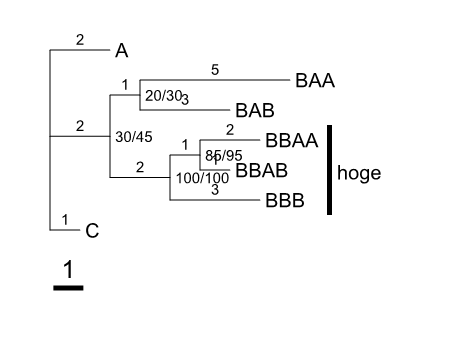
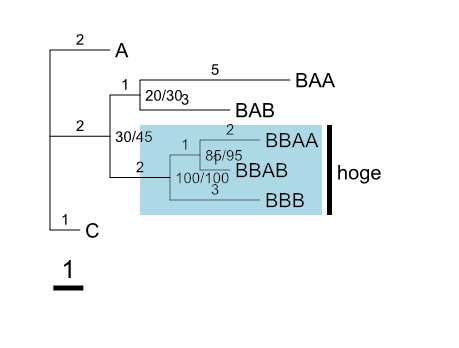
feat: implement shade on backend

Changed region(s): [[0.305, 0.3448, 0.7015, 0.6322]]

diff --git a/src/TreeViewer.Core/Drawing/PositionManager.cs b/src/TreeViewer.Core/Drawing/PositionManager.cs
@@ -235,6 +235,46 @@ namespace TreeViewer.Core.Drawing
         }
 
         /// <summary>
+        ///シェードの座標を算出します。
+        /// </summary>
+        /// <param name="clade">対象のクレード</param>
+        /// <returns><paramref name="clade"/>のシェードの座標</returns>
+        /// <exception cref="ArgumentNullException"><paramref name="clade"/>が<see langword="null"/></exception>
+        public (double x, double y, double width, double height) CalcCladeShadePosition(Clade clade)
+        {
+            ArgumentNullException.ThrowIfNull(clade);
+
+            double CalcXRight(Clade external)
+            {
+                (double x, _, double width, _) = CalcLeafPosition(external);
+                return x + width;
+            }
+
+            double xLeft = (CalcX1(clade) + CalcX2(clade)) / 2;
+            double xRight, yTop, yBottom;
+            double halfLeafHeight = treeStyle.YScale / 2;
+
+            if (clade.GetIsExternal())
+            {
+                xRight = CalcXRight(clade);
+                double y1 = CalcY1(clade);
+                yTop = y1 - halfLeafHeight;
+                yBottom = y1 + halfLeafHeight;
+            }
+            else
+            {
+                Clade[] externals = clade.GetDescendants()
+                                         .Where(x => x.GetIsExternal())
+                                         .ToArray();
+                xRight = externals.Max(CalcXRight);
+                yTop = CalcY1(externals[0]) - halfLeafHeight;
+                yBottom = CalcY1(externals[^1]) + halfLeafHeight;
+            }
+
+            return (xLeft, yTop, xRight - xLeft + 5, yBottom - yTop);
+        }
+
+        /// <summary>
         /// 折り畳みの三角形の座標を算出します。
         /// </summary>
         /// <param name="clade">対象のクレード</param>

diff --git a/src/TreeViewer.Core.Test/Drawing/Styles/CladeStyleTest.cs b/src/TreeViewer.Core.Test/Drawing/Styles/CladeStyleTest.cs
@@ -24,6 +24,7 @@ namespace TreeViewer.Core.Drawing.Styles
                 Assert.Equal("black", style.LeafColor);
                 Assert.False(style.Collapsed);
                 Assert.Null(style.CladeLabel);
+                Assert.Null(style.ShadeColor);
             });
         }
 
@@ -40,21 +41,17 @@ namespace TreeViewer.Core.Drawing.Styles
         [Fact]
         public void ApplyValues_AsPositive()
         {
-            style.ApplyValues(new CladeStyle()
+            var applied = new CladeStyle()
             {
                 BranchColor = "white",
                 LeafColor = "none",
                 Collapsed = true,
                 CladeLabel = "clade",
-            });
+                ShadeColor = "blue",
+            };
+            style.ApplyValues(applied);
 
-            Assert.Multiple(() =>
-            {
-                Assert.Equal("white", style.BranchColor);
-                Assert.Equal("none", style.LeafColor);
-                Assert.True(style.Collapsed);
-                Assert.Equal("clade", style.CladeLabel);
-            });
+            CustomizedAssertions.Equal(applied, style);
         }
 
         [Fact]
@@ -64,6 +61,7 @@ namespace TreeViewer.Core.Drawing.Styles
             style.LeafColor = "blue";
             style.Collapsed = true;
             style.CladeLabel = "clade";
+            style.ShadeColor = "blue";
 
             CladeStyle cloned = style.Clone();
 
@@ -77,6 +75,7 @@ namespace TreeViewer.Core.Drawing.Styles
             style.LeafColor = "blue";
             style.Collapsed = true;
             style.CladeLabel = "clade";
+            style.ShadeColor = "blue";
 
             var cloned = (CladeStyle)((ICloneable)style).Clone();
 

diff --git a/src/TreeViewer.Core.Test/Exporting/SvgExporterTest.cs b/src/TreeViewer.Core.Test/Exporting/SvgExporterTest.cs
@@ -23,6 +23,7 @@ namespace TreeViewer.Core.Exporting
             tree.Style.XScale = 30;
             tree.Style.ScaleBarValue = 1;
             tree.Root.ChildrenInternal[1].ChildrenInternal[1].Style.CladeLabel = "hoge";
+            tree.Root.ChildrenInternal[1].ChildrenInternal[1].Style.ShadeColor = "lightblue";
             exporter = new SvgExporter();
             exportOptions = new ExportOptions();
         }
@@ -65,6 +66,12 @@ namespace TreeViewer.Core.Exporting
 
             Assert.Multiple(() =>
             {
+                SvgElement? shadesGroup = svg.GetElementById("shades");
+                Assert.NotNull(shadesGroup);
+                Assert.IsType<SvgGroup>(shadesGroup);
+                Assert.Single(shadesGroup.Children);
+                Assert.True(shadesGroup.Children.All(x => x is SvgRectangle));
+
                 SvgElement branchesGroup = svg.GetElementById("branches");
                 Assert.NotNull(branchesGroup);
                 Assert.IsType<SvgGroup>(branchesGroup);
@@ -250,6 +257,12 @@ namespace TreeViewer.Core.Exporting
             {
                 Assert.Equal(459.2, svg.Width, 0.1);
                 Assert.Equal(348, svg.Height, 0.1);
+
+                SvgElement? shadesGroup = svg.GetElementById("shades");
+                Assert.NotNull(shadesGroup);
+                Assert.IsType<SvgGroup>(shadesGroup);
+                Assert.Single(shadesGroup.Children);
+                Assert.True(shadesGroup.Children.All(x => x is SvgRectangle));
 
                 SvgElement branchesGroup = svg.GetElementById("branches");
                 Assert.NotNull(branchesGroup);

diff --git a/src/TreeViewer.Core/Exporting/SvgExporter.cs b/src/TreeViewer.Core/Exporting/SvgExporter.cs
@@ -51,6 +51,10 @@ namespace TreeViewer.Core.Exporting
                 ID = "tree-area",
                 Transforms = new SvgTransformCollection().Translate(50, 50),
             }.AddTo(result);
+            SvgGroup shadesGroup = new SvgGroup()
+            {
+                ID = "shades",
+            }.AddTo(treeArea);
             var leafLabelsGroup = new SvgGroup()
             {
                 ID = "leaf-labels",
@@ -84,6 +88,21 @@ namespace TreeViewer.Core.Exporting
             foreach (Clade current in tree.GetAllClades())
             {
                 if (current.GetIsHidden()) continue;
+
+                if (!string.IsNullOrEmpty(current.Style.ShadeColor))
+                {
+                    (double x, double y, double width, double height) = positionManager.CalcCladeShadePosition(current);
+
+                    var rectangle = new SvgRectangle()
+                    {
+                        X = (SvgUnit)x,
+                        Y = (SvgUnit)y,
+                        Width = (SvgUnit)width,
+                        Height = (SvgUnit)height,
+                        Fill = DrawHelpers.CreateSvgColor(current.Style.ShadeColor),
+                    };
+                    rectangle.AddTo(shadesGroup);
+                }
 
                 if (current.GetIsExternal() && !current.IsLeaf)
                 {

diff --git a/src/TreeViewer.Core/Drawing/Styles/CladeStyle.cs b/src/TreeViewer.Core/Drawing/Styles/CladeStyle.cs
@@ -26,6 +26,11 @@
         public string? CladeLabel { get; set; }
 
         /// <summary>
+        /// シェードの色を取得または設定します。
+        /// </summary>
+        public string? ShadeColor { get; set; }
+
+        /// <summary>
         /// <see cref="CladeStyle"/>の新しいインスタンスを初期化します。
         /// </summary>
         public CladeStyle()
@@ -47,6 +52,7 @@
             LeafColor = style.LeafColor;
             Collapsed = style.Collapsed;
             CladeLabel = style.CladeLabel;
+            ShadeColor = style.ShadeColor;
         }
 
         /// <summary>
@@ -59,6 +65,7 @@
             LeafColor = LeafColor,
             Collapsed = Collapsed,
             CladeLabel = CladeLabel,
+            ShadeColor = ShadeColor,
         };
 
         object ICloneable.Clone() => Clone();

diff --git a/src/TreeViewer.Core/Exporting/PdfExporter.cs b/src/TreeViewer.Core/Exporting/PdfExporter.cs
@@ -66,6 +66,13 @@ namespace TreeViewer.Core.Exporting
                 {
                     if (current.GetIsHidden()) continue;
 
+                    if (!string.IsNullOrEmpty(current.Style.ShadeColor))
+                    {
+                        (double x, double y, double width, double height) = positionManager.CalcCladeShadePosition(current);
+
+                        graphics.DrawRectangle(DrawHelpers.CreatePdfColor(current.Style.ShadeColor).ToBrush(), x, y, width, height);
+                    }
+
                     if (current.GetIsExternal() && !current.IsLeaf)
                     {
                         var (left, rightTop, rightBottom) = positionManager.CalcCollapseTrianglePositions(current);

diff --git a/src/TreeViewer.Core.Test/Exporting/PdfExporterTest.cs b/src/TreeViewer.Core.Test/Exporting/PdfExporterTest.cs
@@ -17,6 +17,7 @@ namespace TreeViewer.Core.Exporting
             tree.Style.XScale = 30;
             tree.Style.ScaleBarValue = 1;
             tree.Root.ChildrenInternal[1].ChildrenInternal[1].Style.CladeLabel = "hoge";
+            tree.Root.ChildrenInternal[1].ChildrenInternal[1].Style.ShadeColor = "lightblue";
             exporter = new PdfExporter();
             exportOptions = new ExportOptions();
         }

diff --git a/src/TreeViewer.Core.Test/Exporting/PngExporterTest.cs b/src/TreeViewer.Core.Test/Exporting/PngExporterTest.cs
@@ -18,6 +18,7 @@ namespace TreeViewer.Core.Exporting
             tree.Style.XScale = 30;
             tree.Style.ScaleBarValue = 1;
             tree.Root.ChildrenInternal[1].ChildrenInternal[1].Style.CladeLabel = "hoge";
+            tree.Root.ChildrenInternal[1].ChildrenInternal[1].Style.ShadeColor = "lightblue";
             exporter = new PngExporter();
             exportOptions = new ExportOptions();
         }

diff --git a/src/TreeViewer.TestUtilities/Assertions/CustomizedAssertions.cs b/src/TreeViewer.TestUtilities/Assertions/CustomizedAssertions.cs
@@ -199,6 +199,7 @@ namespace TreeViewer.TestUtilities.Assertions
                 Assert.Equal(expected.LeafColor, actual.LeafColor);
                 Assert.Equal(expected.Collapsed, actual.Collapsed);
                 Assert.Equal(expected.CladeLabel, actual.CladeLabel);
+                Assert.Equal(expected.ShadeColor, actual.ShadeColor);
             });
         }
 
